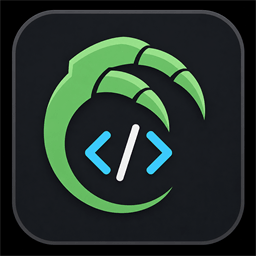
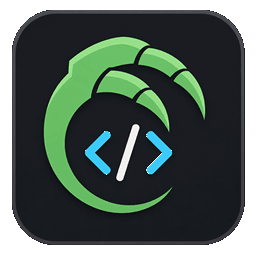
style fix

Changed region(s): [[0.0, 0.0, 1.0, 1.0]]

diff --git a/www/claw-style.css b/www/claw-style.css
@@ -55,9 +55,8 @@ header {
 }
 
 .mark {
-   width: 74px;
-   height: 74px;
-   border-radius: 8px;
+   width: 140px;
+   height: 140px;
    display: block;
    object-fit: contain;
 }
